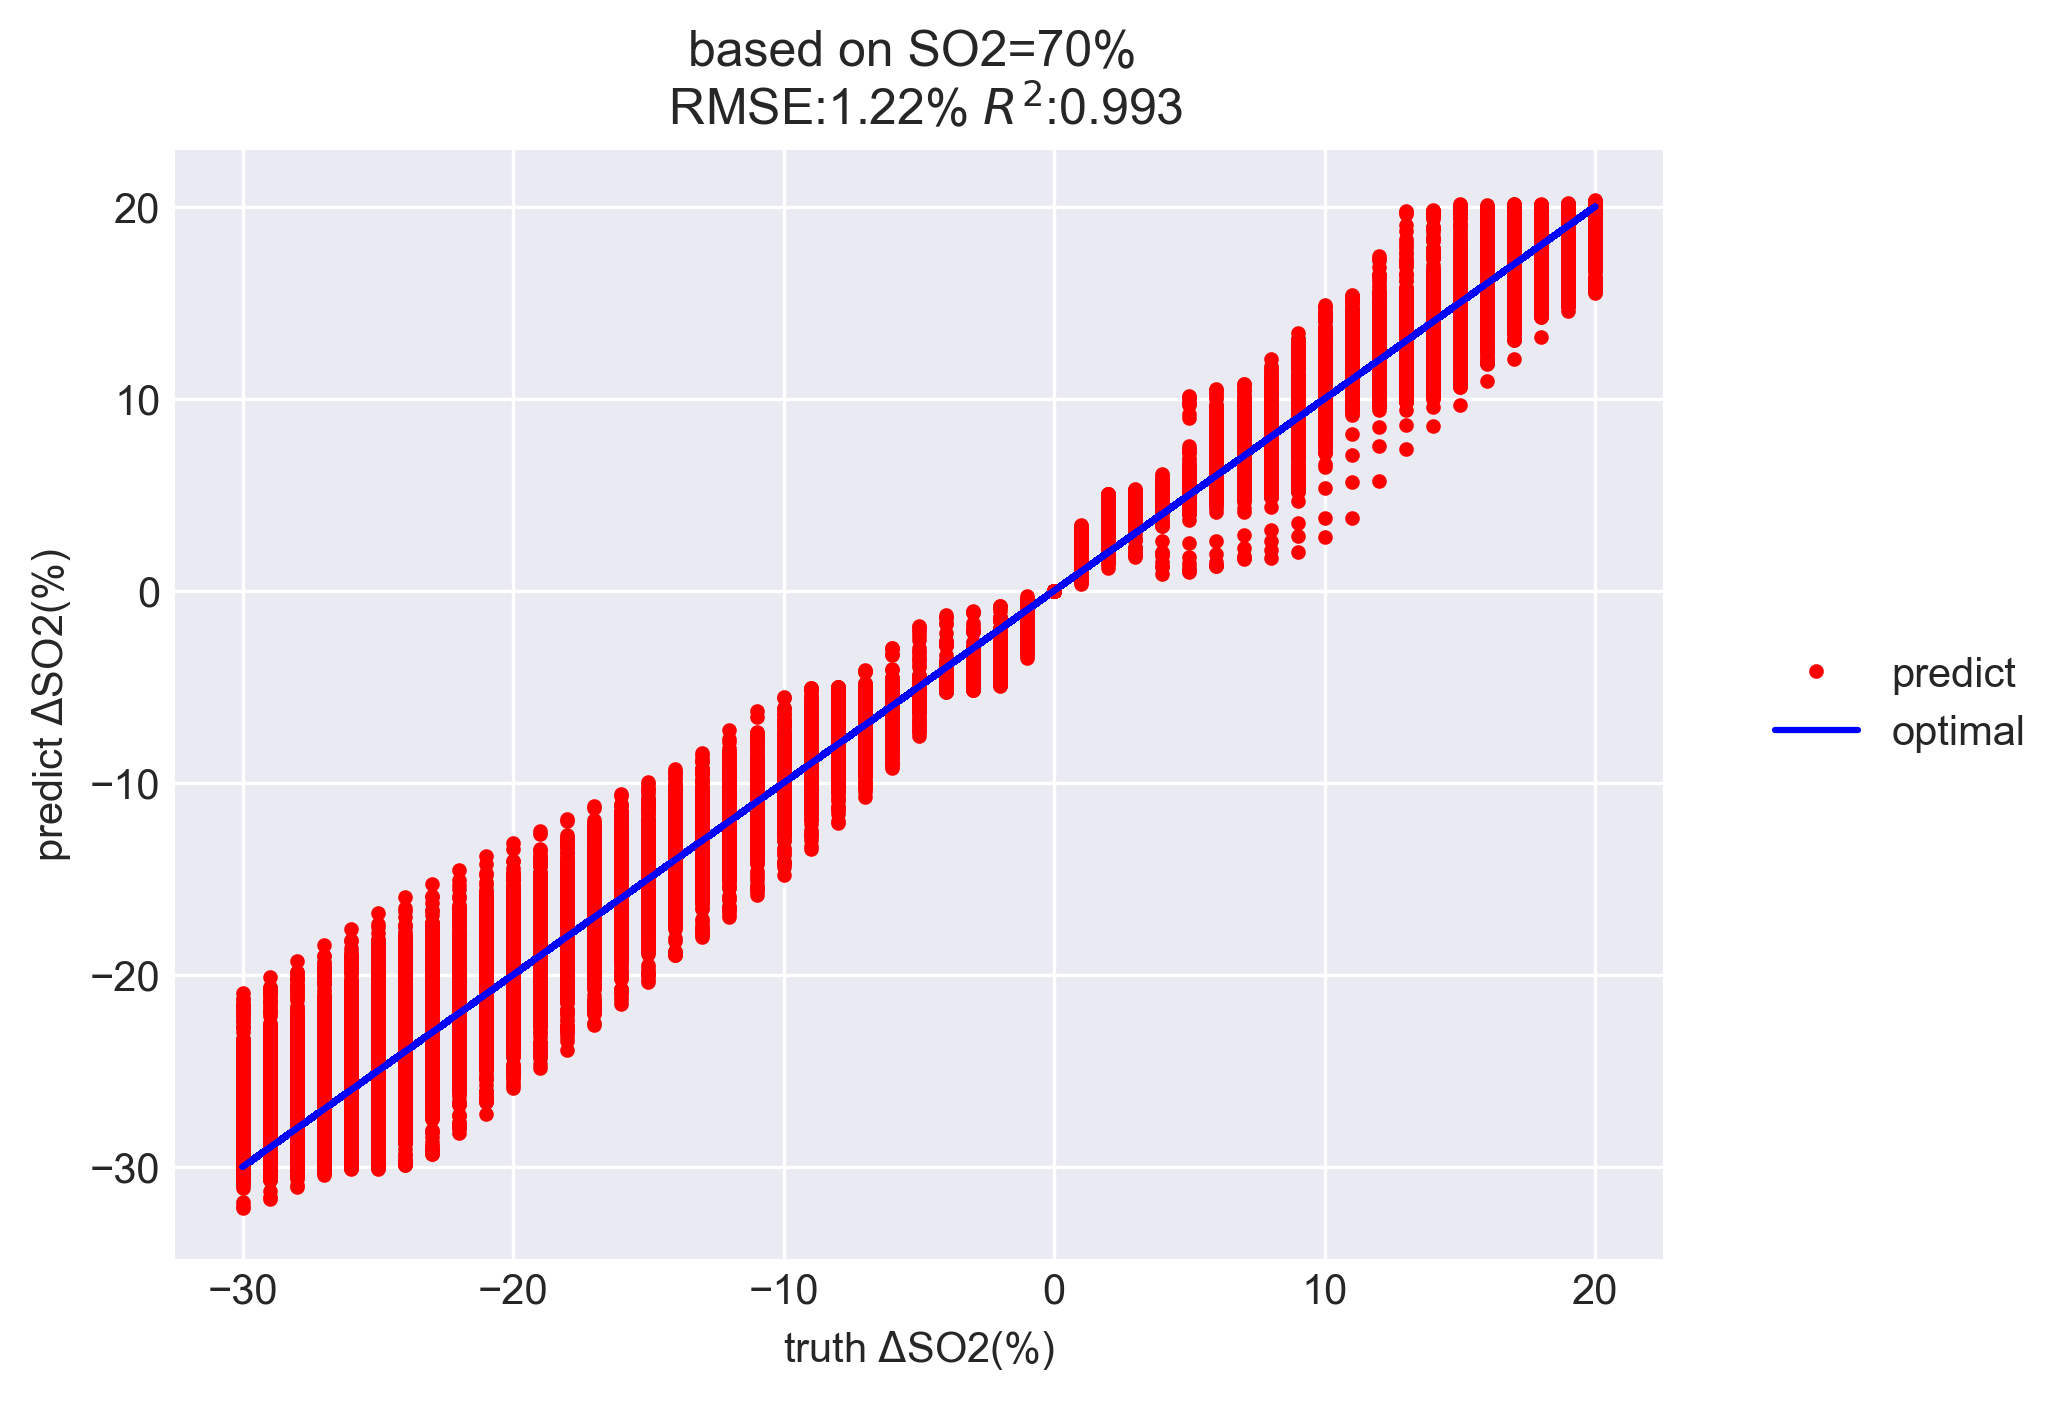
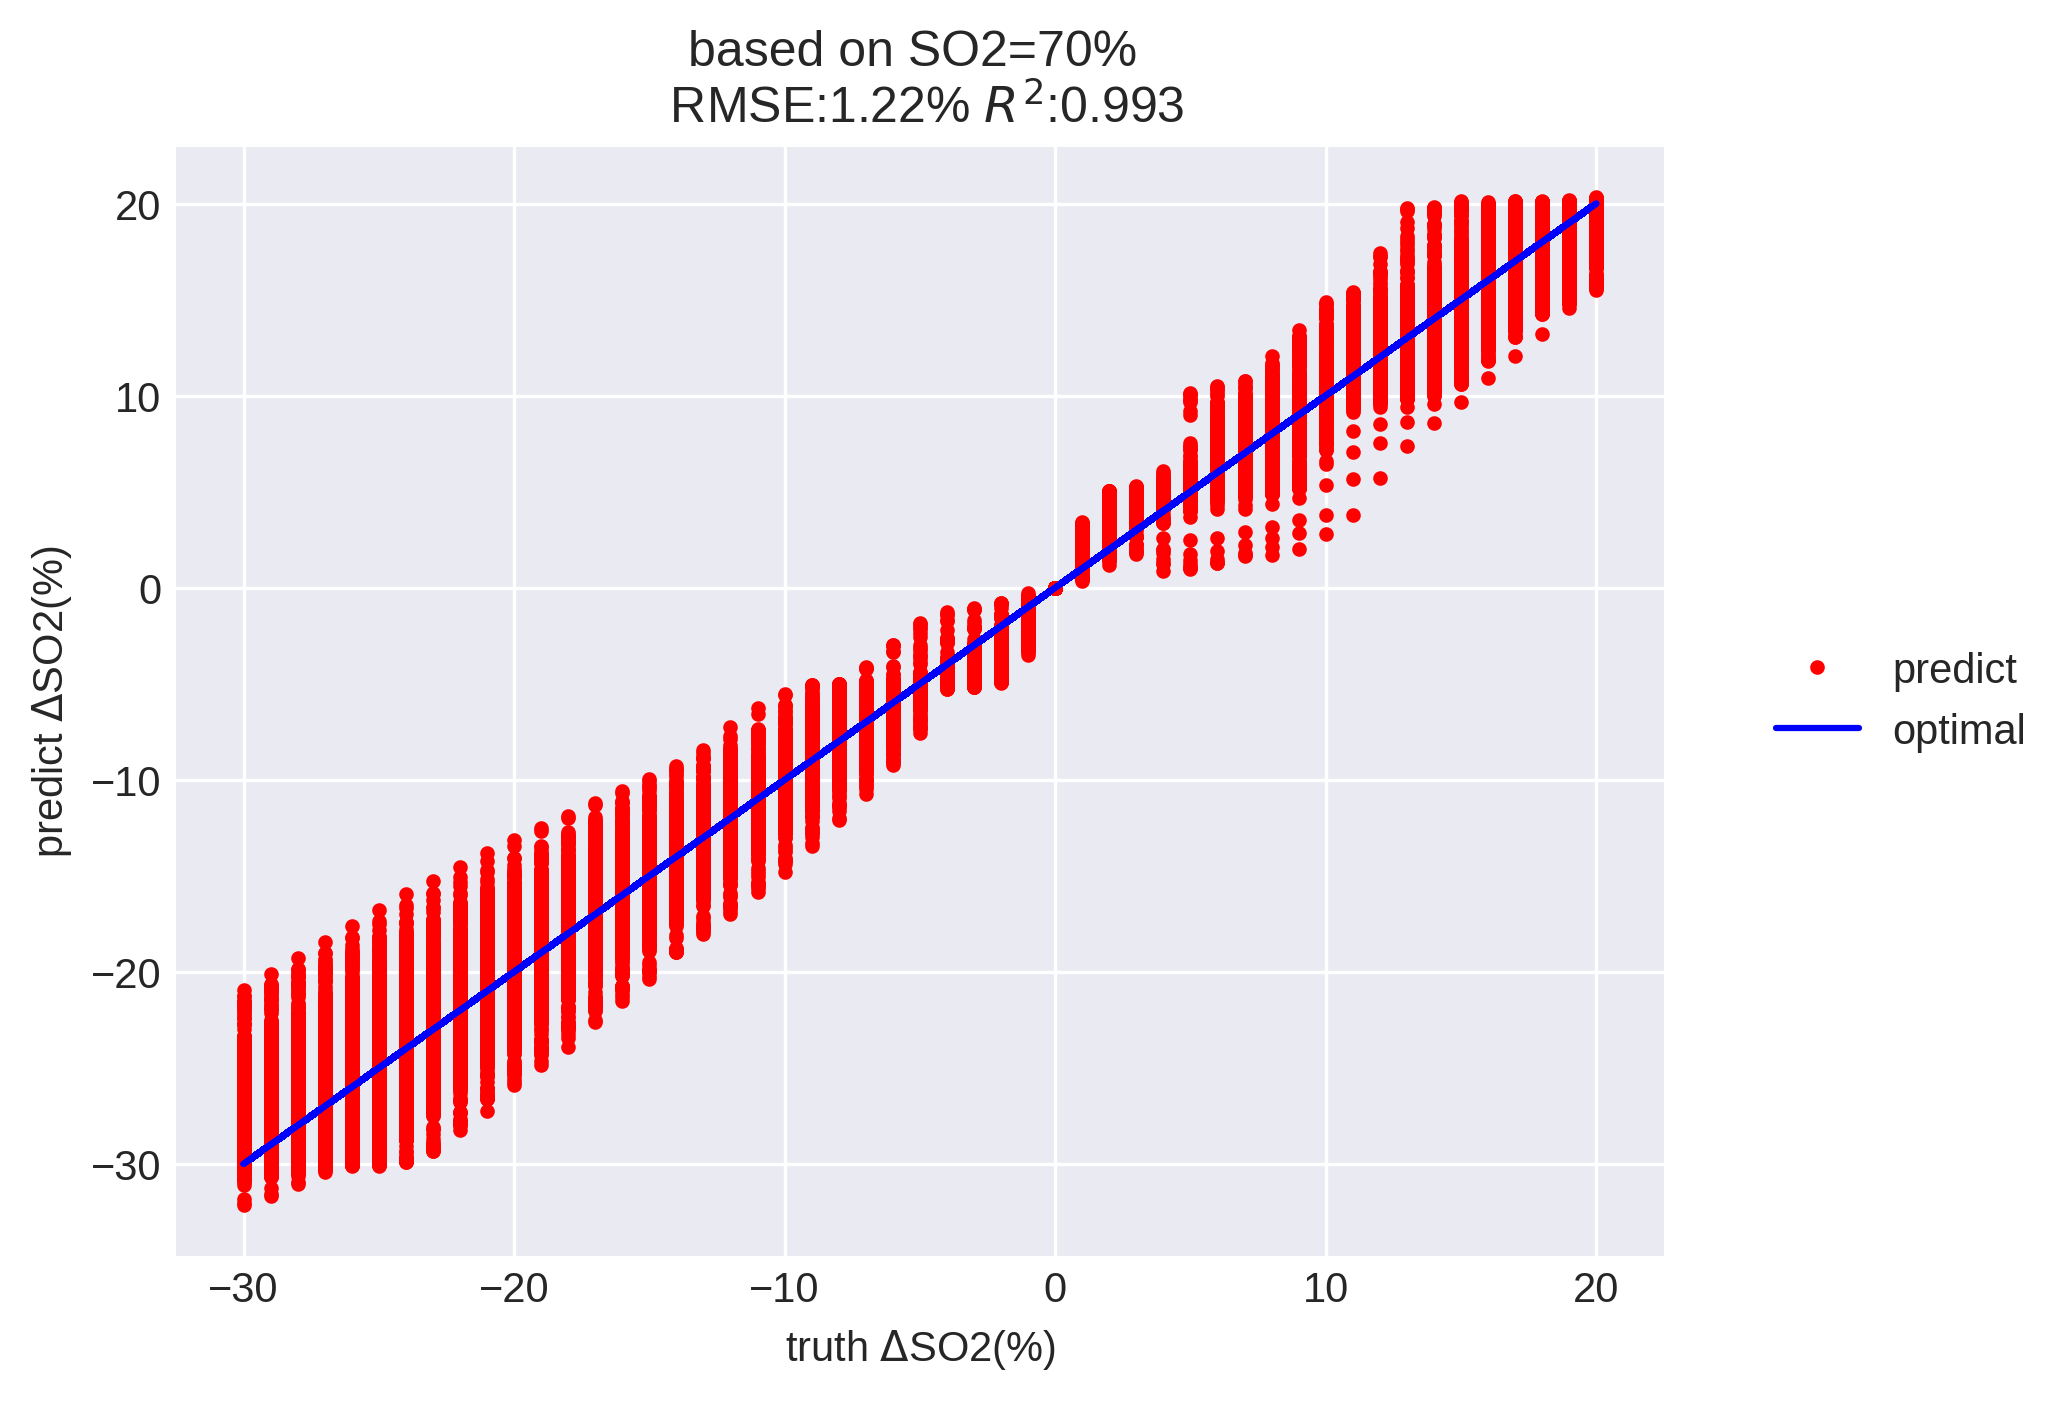
add formula5

diff --git a/prediction_model/S3_generate_prediction_input.py b/prediction_model/S3_generate_prediction_input.py
@@ -28,7 +28,8 @@ def gen_prediction_input(num : int, train_or_test: str, SO2_used : list, outputp
                 surrogate_result_T2 = pd.read_csv(os.path.join("dataset", "surrogate_result", train_or_test, 
                                                             f'bloodConc_{blc}', f'SO2_{s}', f'{id}_{train_or_test}.csv'))
                 for wl_idx in range(len(wavelength)):
-                    prediction_input[i][wl_idx*20 : wl_idx*20+20] = (surrogate_result_T2['largeIJV_SDS1'] / surrogate_result_T2['largeIJV_SDS2'][wl_idx]) / (surrogate_result_T2['smallIJV_SDS1'] / surrogate_result_T2['smallIJV_SDS2'][wl_idx]) - (surrogate_result_T1['largeIJV_SDS1'] / surrogate_result_T1['largeIJV_SDS2'][wl_idx]) / (surrogate_result_T1['smallIJV_SDS1'] / surrogate_result_T1['smallIJV_SDS2'][wl_idx])
+                    prediction_input[i][wl_idx*20 : wl_idx*20+20] = np.log((surrogate_result_T2['largeIJV_SDS2'].to_numpy() / surrogate_result_T2['largeIJV_SDS1'][wl_idx]) / (surrogate_result_T2['smallIJV_SDS2'].to_numpy() / surrogate_result_T2['smallIJV_SDS1'][wl_idx])) - np.log((surrogate_result_T1['largeIJV_SDS2'].to_numpy() / surrogate_result_T1['largeIJV_SDS1'][wl_idx]) / (surrogate_result_T1['smallIJV_SDS2'].to_numpy() / surrogate_result_T1['smallIJV_SDS1'][wl_idx]))
+                    # prediction_input[i][wl_idx*20 : wl_idx*20+20] = (surrogate_result_T2['largeIJV_SDS1'] / surrogate_result_T2['largeIJV_SDS2'][wl_idx]) / (surrogate_result_T2['smallIJV_SDS1'] / surrogate_result_T2['smallIJV_SDS2'][wl_idx]) - (surrogate_result_T1['largeIJV_SDS1'] / surrogate_result_T1['largeIJV_SDS2'][wl_idx]) / (surrogate_result_T1['smallIJV_SDS1'] / surrogate_result_T1['smallIJV_SDS2'][wl_idx])
                     # prediction_input[i][400+wl_idx*20 : 400+wl_idx*20+20] = surrogate_result_T2['smallIJV_SDS1'] / surrogate_result_T2['smallIJV_SDS2'][wl_idx] - surrogate_result_T1['smallIJV_SDS1'] / surrogate_result_T1['smallIJV_SDS2'][wl_idx]     
                 # prediction_input[i][40:60] = surrogate_result_T2['largeIJV_SDS1'] / surrogate_result_T2['largeIJV_SDS2']
                 # prediction_input[i][60:80] = surrogate_result_T2['smallIJV_SDS1'] / surrogate_result_T2['smallIJV_SDS2']
@@ -43,7 +44,7 @@ def gen_prediction_input(num : int, train_or_test: str, SO2_used : list, outputp
 if __name__ == "__main__":
     train_num = 10000
     test_num = 200
-    outputpath = 'prediction_model_formula4'
+    outputpath = 'prediction_model_formula5'
     #%%
     os.makedirs(os.path.join("dataset", outputpath, "train"), exist_ok=True)
     os.makedirs(os.path.join("dataset", outputpath, "test"), exist_ok=True)

diff --git a/prediction_model/plot_result.py b/prediction_model/plot_result.py
@@ -1,6 +1,6 @@
 # %%
 import matplotlib.pyplot as plt
-from ANN_models import PredictionModel, PredictionModel2, PredictionModel3
+from ANN_models import PredictionModel, PredictionModel2, PredictionModel3, PredictionModel4
 import os 
 import json
 import torch
@@ -12,7 +12,7 @@ import matplotlib as mpl
 mpl.rcParams.update(mpl.rcParamsDefault)
 plt.style.use("seaborn-darkgrid")
 # %%
-result_folder = "prediction_model_formula3"
+result_folder = "prediction_model_formula4"
 
 # %%
 os.makedirs(os.path.join("pic", result_folder), exist_ok=True)
@@ -22,7 +22,7 @@ with open(os.path.join("OPs_used", "SO2.json"), 'r') as f:
 with open(os.path.join("model_save", result_folder, 'trlog.json'), 'r') as f:
     config = json.load(f)
 test_loader = torch.load(os.path.join("model_save", result_folder, 'test_loader.pth'))
-model = PredictionModel3().cuda()
+model = PredictionModel4().cuda()
 model.load_state_dict(torch.load(config['best_model']))
 model.eval()
 

diff --git a/prediction_model/S4_train_prediction_model.py b/prediction_model/S4_train_prediction_model.py
@@ -70,7 +70,7 @@ def test(trlog,ep,min_loss):
 if __name__ == "__main__":
     train_num = 10000
     test_num = 200
-    result_folder = "prediction_model_formula4"
+    result_folder = "prediction_model_formula5"
     #%%
     EPOCH = 40
     BATCH_SIZE = 512
